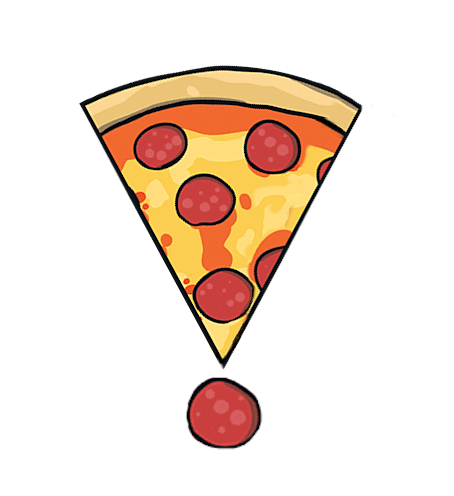
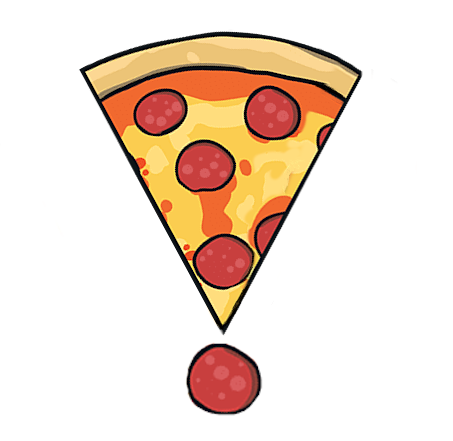
pantalla error

Changed region(s): [[0.1545, 0.059, 0.8035, 0.9433]]

diff --git a/error.php b/error.php
@@ -8,21 +8,37 @@
     <link rel="stylesheet" href="normalize.css">
     <title>Error</title>
     <style>
+
         .pantalla{
-            height: 79vh; /* For 100% screen height */
-            width:  80vw; /* For 100% screen width */
-          
-            justify-content: center;
+            width: auto;
+            height: 82vh;
+            display: flex;
+            align-items: center;
         }
+
+        .err{
+            margin-left: auto;
+            display: flex;
+            justify-content: center;
+            margin-right: auto; 
+            flex-direction: column;          
+        }
+
+        .err_h1{
+            color: #800000;
+        }
+
+
     </style>
 </head>
 
 <body>
     <?php include("header.php") ?>
-    <div class="pantalla">
-        <img src="img/error_pizza.png">
-        <h1>Error, ja has fet una comanda avui.</h1>
-
+    <div class=pantalla>
+        <div class="err">
+            <img src="img/error_pizza.png">
+            <h1 class="err_h1">Error, ja has fet la comanda d'avui!</h1>
+        </div>
     </div>
 
     <?php include ("footer.php"); ?>
